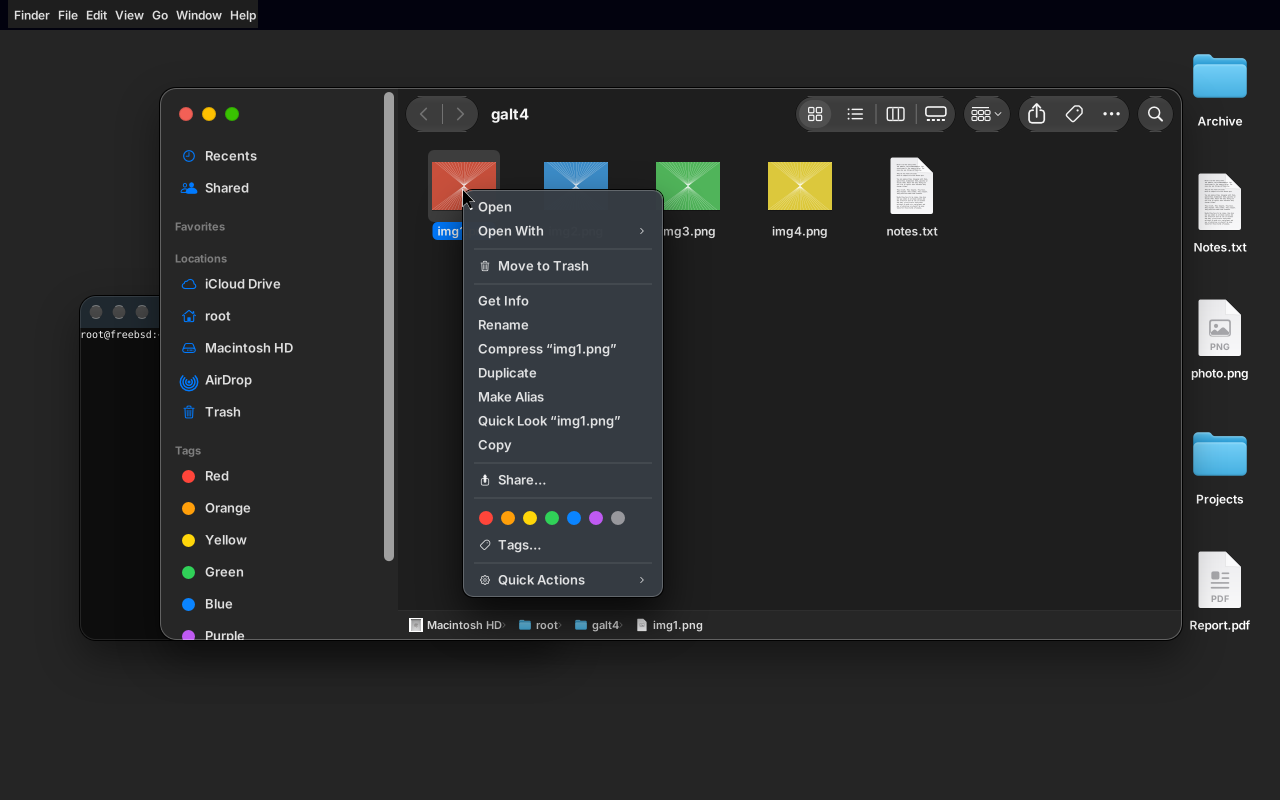
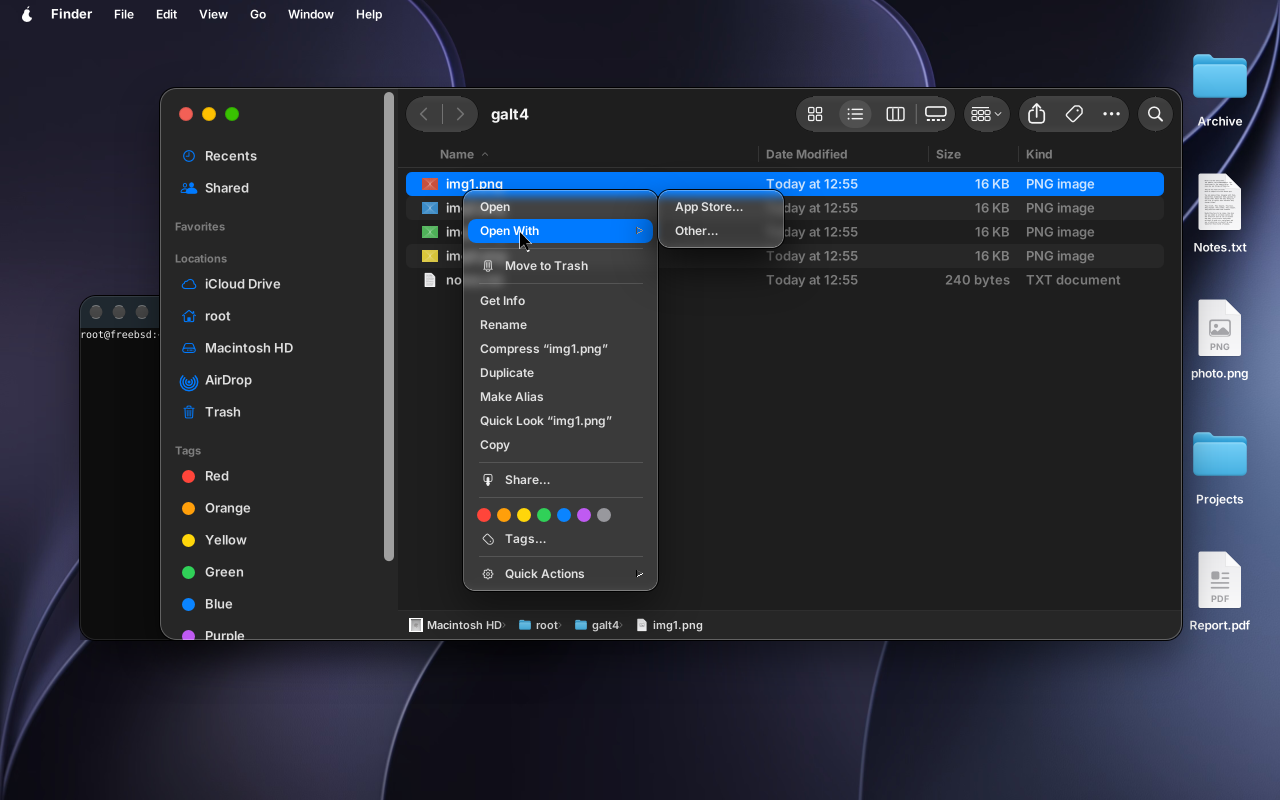
README: screenshots of the native context menu, Group menu, Go to Folder sheet, Connect to Server
Claude-Session: https://claude.ai/code/session_01GG5WKg1syN2MAKWKNAL9mh

diff --git a/README.md b/README.md
@@ -225,6 +225,8 @@ Finder status (2026-10-23, an honest estimate from the code and the VM, not a me
 | ![Finder, icons](wsbsd/docs/screenshots/finder-icons.png) | ![Finder, list with the preview pane](wsbsd/docs/screenshots/finder-list.png) |
 | ![Share menu](wsbsd/docs/screenshots/finder-share.png) | ![Context menu](wsbsd/docs/screenshots/finder-ctx.png) |
 | ![Desktop context menu](wsbsd/docs/screenshots/finder-desk.png) | ![Wallpaper and window tint](wsbsd/docs/screenshots/finder-wallpaper-tint.png) |
+| ![Group menu](wsbsd/docs/screenshots/finder-group.png) | ![Go to Folder sheet](wsbsd/docs/screenshots/finder-goto.png) |
+| ![Connect to Server](wsbsd/docs/screenshots/finder-conn.png) | |
 | ![Default dark wallpaper](wsbsd/docs/screenshots/desktop-wallpaper-dark.png) | ![Default light wallpaper](wsbsd/docs/screenshots/desktop-wallpaper-light.png) |
 
 **Other open work:** Chess, the SkyLight routines that need a compositor, KMS/GPU hardware, the Dock, real WebKit, the designers' assets (ordered, 21,000 EUR) and the Pico 2 secure-element token.
